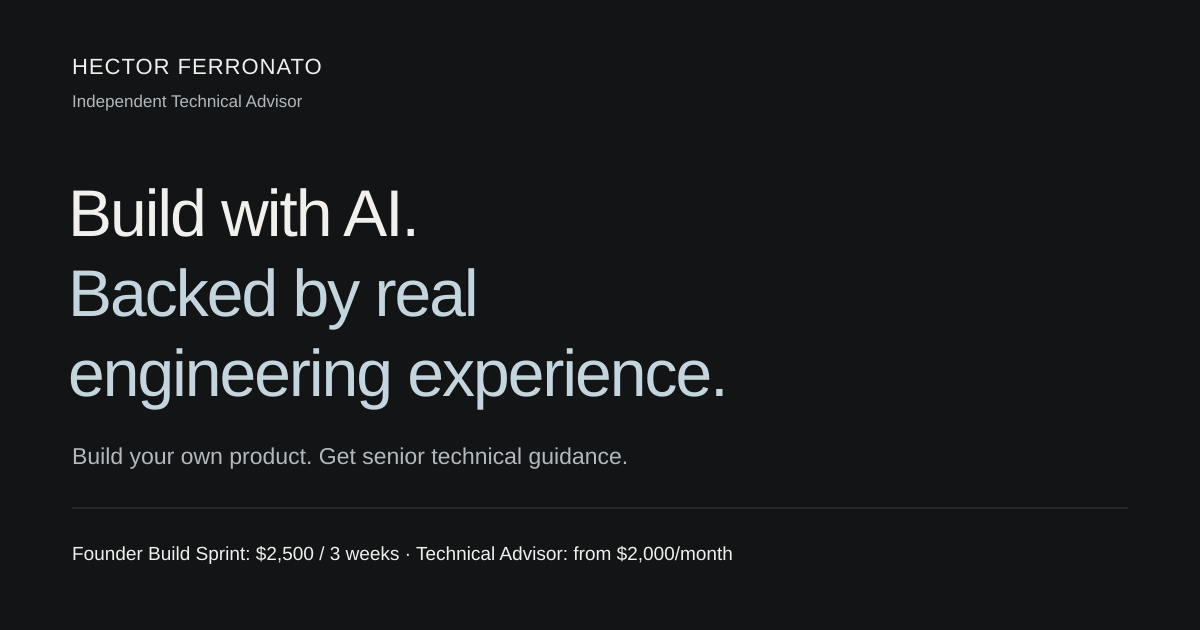
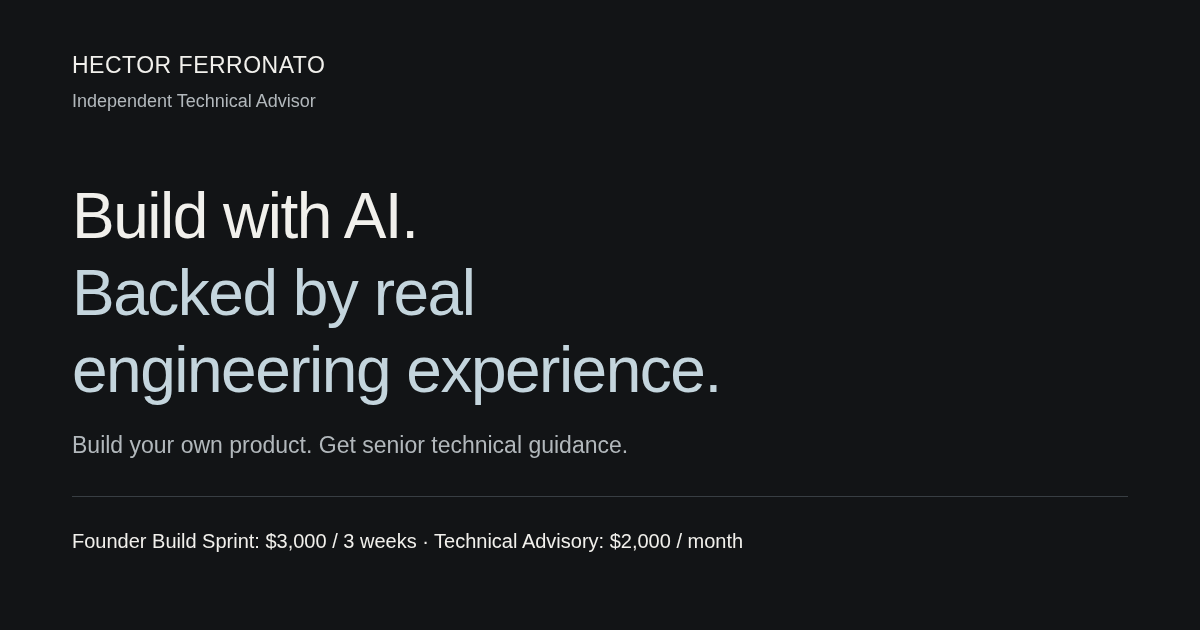
Correct service pricing and clarify story and back navigation

diff --git a/founder-build-sprint.html b/founder-build-sprint.html
@@ -1,12 +1,12 @@
-<!doctype html><html lang="en"><head><meta charset="utf-8"><meta name="viewport" content="width=device-width, initial-scale=1"><title>Founder Build Sprint | Hector Ferronato</title><meta name="description" content="Founder Build Sprint: $2,500 / 3 weeks, up to 8 advisor hours. Learn to build your own product with AI through private guidance and independent assignments."><meta name="theme-color" content="#121416"><link rel="canonical" href="https://hectorferronato.github.io/tech_advisor_landing_page/founder-build-sprint.html"><meta property="og:type" content="website"><meta property="og:title" content="Founder Build Sprint | Hector Ferronato"><meta property="og:description" content="Founder Build Sprint: $2,500 / 3 weeks, up to 8 advisor hours. Learn to build your own product with AI through private guidance and independent assignments."><meta property="og:url" content="https://hectorferronato.github.io/tech_advisor_landing_page/founder-build-sprint.html"><meta property="og:image" content="https://hectorferronato.github.io/tech_advisor_landing_page/assets/social.png"><meta name="twitter:card" content="summary_large_image"><link rel="icon" href="assets/favicon.svg" type="image/svg+xml"><link rel="stylesheet" href="assets/style.css?v=20261029-proof-popup-1"><script defer src="assets/config.js?v=20261029-contact-actions-1"></script><script defer src="assets/site.js?v=20261029-proof-popup-1"></script><script defer src="assets/forms.js?v=20261029-proof-popup-1"></script></head><body class="detail-page">
+<!doctype html><html lang="en"><head><meta charset="utf-8"><meta name="viewport" content="width=device-width, initial-scale=1"><title>Founder Build Sprint | Hector Ferronato</title><meta name="description" content="Founder Build Sprint: $3,000 / 3 weeks, up to 8 advisor hours. Learn to build your own product with AI through private guidance and independent assignments."><meta name="theme-color" content="#121416"><link rel="canonical" href="https://hectorferronato.github.io/tech_advisor_landing_page/founder-build-sprint.html"><meta property="og:type" content="website"><meta property="og:title" content="Founder Build Sprint | Hector Ferronato"><meta property="og:description" content="Founder Build Sprint: $3,000 / 3 weeks, up to 8 advisor hours. Learn to build your own product with AI through private guidance and independent assignments."><meta property="og:url" content="https://hectorferronato.github.io/tech_advisor_landing_page/founder-build-sprint.html"><meta property="og:image" content="https://hectorferronato.github.io/tech_advisor_landing_page/assets/social.png?v=20261029-pricing-1"><meta name="twitter:card" content="summary_large_image"><link rel="icon" href="assets/favicon.svg" type="image/svg+xml"><link rel="stylesheet" href="assets/style.css?v=20261029-pricing-navigation-1"><script defer src="assets/config.js?v=20261029-contact-actions-1"></script><script defer src="assets/site.js?v=20261029-proof-popup-1"></script><script defer src="assets/forms.js?v=20261029-proof-popup-1"></script></head><body class="detail-page">
 <a class="skip" href="#main">Skip to content</a>
 <main id="main" tabindex="-1">
 <section class="service-intro wrap" aria-labelledby="service-title">
-  <a class="breadcrumb" href="index.html#services">Back to engagements</a>
+  <a class="button secondary breadcrumb" href="index.html#services"><span aria-hidden="true">←</span>Back to engagements</a>
   <p class="eyebrow">Founder Build Sprint</p>
   <h1 id="service-title">Build your product.<br>Build your independence.</h1>
   <p class="lead">Go from idea to practical AI-assisted development through private guided sessions, structured assignments, and experienced engineering feedback.</p>
-  <div class="service-offer"><div><p class="offer-price">$2,500 / 3 weeks</p><p>Up to 8 advisor hours · Private 1:1</p><p>One-time engagement, renewable by agreement.</p></div><a class="button" data-apply="build" href="https://tally.so/r/J11QEz" target="_blank" rel="noopener noreferrer">Apply for a Build Sprint <svg class="arrow-icon" aria-hidden="true" viewBox="0 0 16 16" fill="none"><path d="M3 13 13 3M3 3h10v10" stroke="currentColor" stroke-width="1.25"/></svg></a></div>
+  <div class="service-offer"><div><p class="offer-price">$3,000 / 3 weeks</p><p>Up to 8 advisor hours · Private 1:1</p><p>One-time engagement, renewable by agreement.</p></div><a class="button" data-apply="build" href="https://tally.so/r/J11QEz" target="_blank" rel="noopener noreferrer">Apply for a Build Sprint <svg class="arrow-icon" aria-hidden="true" viewBox="0 0 16 16" fill="none"><path d="M3 13 13 3M3 3h10v10" stroke="currentColor" stroke-width="1.25"/></svg></a></div>
   <p class="contact-note" data-contact-note>Share your project through the application form. We’ll discuss fit, scope, and next steps before agreeing to an engagement.</p>
 </section>
 <section class="detail-section wrap detail-grid"><div><p class="eyebrow">WHO IT'S FOR</p><h2>Build capability,<br>alongside your product.</h2><p>A teaching engagement for founders and business owners who want to build and test a software idea before hiring a development team. You bring the business knowledge and the commitment to work independently. I help you turn that into a focused building and learning process.</p><p>The structure combines guided sessions, independent assignments, and expert technical feedback. You'll learn product scoping, environment setup, and AI-assisted workflows while doing the building yourself.</p></div><div class="detail-media" data-service-media="build"><img class="service-photo" data-service-image="build" src="assets/hector-building.jpg?v=20261029-selection-1" alt="AI-generated illustrative scene of Hector building software at a laptop" width="964" height="809" loading="lazy" decoding="async"></div></section>

diff --git a/technical-advisory.html b/technical-advisory.html
@@ -1,12 +1,12 @@
-<!doctype html><html lang="en"><head><meta charset="utf-8"><meta name="viewport" content="width=device-width, initial-scale=1"><title>Technical Advisory | Hector Ferronato</title><meta name="description" content="Technical Advisory: from $2,000/month, up to 4 advisor hours monthly and direct-message access. Independent senior guidance, reviews, and recommendations."><meta name="theme-color" content="#121416"><link rel="canonical" href="https://hectorferronato.github.io/tech_advisor_landing_page/technical-advisory.html"><meta property="og:type" content="website"><meta property="og:title" content="Technical Advisory | Hector Ferronato"><meta property="og:description" content="Technical Advisory: from $2,000/month, up to 4 advisor hours monthly and direct-message access. Independent senior guidance, reviews, and recommendations."><meta property="og:url" content="https://hectorferronato.github.io/tech_advisor_landing_page/technical-advisory.html"><meta property="og:image" content="https://hectorferronato.github.io/tech_advisor_landing_page/assets/social.png"><meta name="twitter:card" content="summary_large_image"><link rel="icon" href="assets/favicon.svg" type="image/svg+xml"><link rel="stylesheet" href="assets/style.css?v=20261029-proof-popup-1"><script defer src="assets/config.js?v=20261029-contact-actions-1"></script><script defer src="assets/site.js?v=20261029-proof-popup-1"></script><script defer src="assets/forms.js?v=20261029-proof-popup-1"></script></head><body class="detail-page">
+<!doctype html><html lang="en"><head><meta charset="utf-8"><meta name="viewport" content="width=device-width, initial-scale=1"><title>Technical Advisory | Hector Ferronato</title><meta name="description" content="Technical Advisory: $2,000/month, up to 4 advisor hours monthly and direct-message access. Independent senior guidance, reviews, and recommendations."><meta name="theme-color" content="#121416"><link rel="canonical" href="https://hectorferronato.github.io/tech_advisor_landing_page/technical-advisory.html"><meta property="og:type" content="website"><meta property="og:title" content="Technical Advisory | Hector Ferronato"><meta property="og:description" content="Technical Advisory: $2,000/month, up to 4 advisor hours monthly and direct-message access. Independent senior guidance, reviews, and recommendations."><meta property="og:url" content="https://hectorferronato.github.io/tech_advisor_landing_page/technical-advisory.html"><meta property="og:image" content="https://hectorferronato.github.io/tech_advisor_landing_page/assets/social.png?v=20261029-pricing-1"><meta name="twitter:card" content="summary_large_image"><link rel="icon" href="assets/favicon.svg" type="image/svg+xml"><link rel="stylesheet" href="assets/style.css?v=20261029-pricing-navigation-1"><script defer src="assets/config.js?v=20261029-contact-actions-1"></script><script defer src="assets/site.js?v=20261029-proof-popup-1"></script><script defer src="assets/forms.js?v=20261029-proof-popup-1"></script></head><body class="detail-page">
 <a class="skip" href="#main">Skip to content</a>
 <main id="main" tabindex="-1">
 <section class="service-intro wrap" aria-labelledby="service-title">
-  <a class="breadcrumb" href="index.html#services">Back to engagements</a>
+  <a class="button secondary breadcrumb" href="index.html#services"><span aria-hidden="true">←</span>Back to engagements</a>
   <p class="eyebrow">Technical Advisory</p>
   <h1 id="service-title">A clear perspective.<br>A better next decision.</h1>
   <p class="lead">Get independent senior guidance on architecture, product direction, AI development, engineering risks, and critical technical decisions.</p>
-  <div class="service-offer"><div><p class="offer-price">From $2,000 / month</p><p>Up to 4 advisor hours/month · Month-to-month</p><p>Includes direct-message access.</p></div><a class="button" data-apply="advisory" href="https://tally.so/r/DqqjEj" target="_blank" rel="noopener noreferrer">Request advisory <svg class="arrow-icon" aria-hidden="true" viewBox="0 0 16 16" fill="none"><path d="M3 13 13 3M3 3h10v10" stroke="currentColor" stroke-width="1.25"/></svg></a></div>
+  <div class="service-offer"><div><p class="offer-price">$2,000 / month</p><p>Up to 4 advisor hours/month · Month-to-month</p><p>Includes direct-message access.</p></div><a class="button" data-apply="advisory" href="https://tally.so/r/DqqjEj" target="_blank" rel="noopener noreferrer">Request advisory <svg class="arrow-icon" aria-hidden="true" viewBox="0 0 16 16" fill="none"><path d="M3 13 13 3M3 3h10v10" stroke="currentColor" stroke-width="1.25"/></svg></a></div>
   <p class="contact-note" data-contact-note>Share your project through the application form. We’ll discuss fit, scope, and next steps before agreeing to an engagement.</p>
 </section>
 <section class="detail-section wrap detail-grid"><div><p class="eyebrow">WHO IT'S FOR</p><h2>When the next choice<br>deserves a second perspective.</h2><p>You're already building software, using AI coding tools, or working with a technical team. You want experienced, independent judgment to understand the tradeoffs and decide where to invest next.</p><p>Bring an architecture question, hiring decision, vendor proposal, or AI-built product to review. We agree on a focused question and work toward prioritized recommendations.</p></div><div class="detail-media" data-service-media="advisory"><img class="service-photo" data-service-image="advisory" src="assets/hector-advisory.jpg?v=20261029-selection-1" alt="AI-generated illustrative scene of Hector discussing software architecture with another person" width="1122" height="1402" loading="lazy" decoding="async"></div></section>

diff --git a/index.html b/index.html
@@ -1,4 +1,4 @@
-<!doctype html><html lang="en"><head><meta charset="utf-8"><meta name="viewport" content="width=device-width, initial-scale=1"><title>Hector Ferronato | Independent Technical Advisory</title><meta name="description" content="Build with AI. Backed by real engineering experience. Founder Build Sprint: $2,500 / 3 weeks. Technical Advisory: from $2,000/month. Independent guidance from Hector Ferronato."><meta name="theme-color" content="#121416"><link rel="canonical" href="https://hectorferronato.github.io/tech_advisor_landing_page/"><meta property="og:type" content="website"><meta property="og:title" content="Hector Ferronato | Independent Technical Advisory"><meta property="og:description" content="Build with AI. Backed by real engineering experience. Founder Build Sprint: $2,500 / 3 weeks. Technical Advisory: from $2,000/month. Independent guidance from Hector Ferronato."><meta property="og:url" content="https://hectorferronato.github.io/tech_advisor_landing_page/"><meta property="og:image" content="https://hectorferronato.github.io/tech_advisor_landing_page/assets/social.png"><meta name="twitter:card" content="summary_large_image"><link rel="icon" href="assets/favicon.svg" type="image/svg+xml"><link rel="stylesheet" href="assets/style.css?v=20261029-proof-popup-1"><script defer src="assets/config.js?v=20261029-contact-actions-1"></script><script defer src="assets/site.js?v=20261029-proof-popup-1"></script><script defer src="assets/forms.js?v=20261029-proof-popup-1"></script></head><body class="homepage">
+<!doctype html><html lang="en"><head><meta charset="utf-8"><meta name="viewport" content="width=device-width, initial-scale=1"><title>Hector Ferronato | Independent Technical Advisory</title><meta name="description" content="Build with AI. Backed by real engineering experience. Founder Build Sprint: $3,000 / 3 weeks. Technical Advisory: $2,000/month. Independent guidance from Hector Ferronato."><meta name="theme-color" content="#121416"><link rel="canonical" href="https://hectorferronato.github.io/tech_advisor_landing_page/"><meta property="og:type" content="website"><meta property="og:title" content="Hector Ferronato | Independent Technical Advisory"><meta property="og:description" content="Build with AI. Backed by real engineering experience. Founder Build Sprint: $3,000 / 3 weeks. Technical Advisory: $2,000/month. Independent guidance from Hector Ferronato."><meta property="og:url" content="https://hectorferronato.github.io/tech_advisor_landing_page/"><meta property="og:image" content="https://hectorferronato.github.io/tech_advisor_landing_page/assets/social.png?v=20261029-pricing-1"><meta name="twitter:card" content="summary_large_image"><link rel="icon" href="assets/favicon.svg" type="image/svg+xml"><link rel="stylesheet" href="assets/style.css?v=20261029-pricing-navigation-1"><script defer src="assets/config.js?v=20261029-contact-actions-1"></script><script defer src="assets/site.js?v=20261029-proof-popup-1"></script><script defer src="assets/forms.js?v=20261029-proof-popup-1"></script></head><body class="homepage">
 <a class="skip" href="#main">Skip to content</a>
 <main id="main" tabindex="-1">
 <section class="hero wrap" aria-labelledby="intro-title">
@@ -32,7 +32,7 @@
     <article class="service-panel" aria-labelledby="build-title">
       <div class="panel-heading"><p class="eyebrow">BUILD YOUR PRODUCT</p><h3 id="build-title">Founder Build Sprint</h3></div>
       <p class="service-audience">Learn to build your own software product with AI.</p>
-      <div class="engagement"><p class="price">$2,500 <span>total</span></p><p class="engagement-duration">3 weeks · Private 1:1</p></div>
+      <div class="engagement"><p class="price">$3,000 <span>total</span></p><p class="engagement-duration">3 weeks · Private 1:1</p></div>
       <div class="service-photo-frame" data-service-media="build"><img class="service-photo" data-service-image="build" src="assets/hector-building.jpg?v=20261029-selection-1" alt="AI-generated illustrative scene of Hector building software at a laptop" width="964" height="809" loading="lazy" decoding="async"></div>
       <ul class="service-scope">
         <li>Guided AI-assisted building and assignment reviews</li>
@@ -47,7 +47,7 @@
     <article class="service-panel" aria-labelledby="advisory-title">
       <div class="panel-heading"><p class="eyebrow">GUIDE YOUR DECISIONS</p><h3 id="advisory-title">Technical Advisory</h3></div>
       <p class="service-audience">Already building? Get experienced technical guidance.</p>
-      <div class="engagement"><p class="price"><span class="price-prefix">From </span>$2,000<span>/month</span></p><p class="engagement-duration">Month-to-month</p></div>
+      <div class="engagement"><p class="price">$2,000<span>/month</span></p><p class="engagement-duration">Month-to-month</p></div>
       <div class="service-photo-frame" data-service-media="advisory"><img class="service-photo" data-service-image="advisory" src="assets/hector-advisory.jpg?v=20261029-selection-1" alt="AI-generated illustrative scene of Hector discussing software architecture with another person" width="1122" height="1402" loading="lazy" decoding="async"></div>
       <ul class="service-scope">
         <li>Product, architecture, and technical decision reviews</li>

diff --git a/experience.html b/experience.html
@@ -1,9 +1,9 @@
-<!doctype html><html lang="en"><head><meta charset="utf-8"><meta name="viewport" content="width=device-width, initial-scale=1"><title>Hector Ferronato | Engineering, Building &amp; Teaching</title><meta name="description" content="I combine engineering leadership, founder/operator experience, and teaching to help founders build independently and make informed technical decisions."><meta name="theme-color" content="#121416"><link rel="canonical" href="https://hectorferronato.github.io/tech_advisor_landing_page/experience.html"><meta property="og:type" content="website"><meta property="og:title" content="Hector Ferronato | Engineering, Building &amp; Teaching"><meta property="og:description" content="I combine engineering leadership, founder/operator experience, and teaching to help founders build independently and make informed technical decisions."><meta property="og:url" content="https://hectorferronato.github.io/tech_advisor_landing_page/experience.html"><meta property="og:image" content="https://hectorferronato.github.io/tech_advisor_landing_page/assets/hector-profile.jpg"><meta property="og:image:alt" content="Hector Ferronato"><meta name="twitter:card" content="summary"><link rel="icon" href="assets/favicon.svg" type="image/svg+xml"><link rel="stylesheet" href="assets/style.css?v=20261029-proof-popup-1"><script defer src="assets/config.js?v=20261029-contact-actions-1"></script><script defer src="assets/site.js?v=20261029-proof-popup-1"></script><link rel="stylesheet" href="assets/experience.css?v=20261029-spacing-1"><script defer src="assets/forms.js?v=20261029-proof-popup-1"></script></head><body class="experience-page">
+<!doctype html><html lang="en"><head><meta charset="utf-8"><meta name="viewport" content="width=device-width, initial-scale=1"><title>Hector Ferronato | Engineering, Building &amp; Teaching</title><meta name="description" content="I combine engineering leadership, founder/operator experience, and teaching to help founders build independently and make informed technical decisions."><meta name="theme-color" content="#121416"><link rel="canonical" href="https://hectorferronato.github.io/tech_advisor_landing_page/experience.html"><meta property="og:type" content="website"><meta property="og:title" content="Hector Ferronato | Engineering, Building &amp; Teaching"><meta property="og:description" content="I combine engineering leadership, founder/operator experience, and teaching to help founders build independently and make informed technical decisions."><meta property="og:url" content="https://hectorferronato.github.io/tech_advisor_landing_page/experience.html"><meta property="og:image" content="https://hectorferronato.github.io/tech_advisor_landing_page/assets/hector-profile.jpg"><meta property="og:image:alt" content="Hector Ferronato"><meta name="twitter:card" content="summary"><link rel="icon" href="assets/favicon.svg" type="image/svg+xml"><link rel="stylesheet" href="assets/style.css?v=20261029-pricing-navigation-1"><script defer src="assets/config.js?v=20261029-contact-actions-1"></script><script defer src="assets/site.js?v=20261029-proof-popup-1"></script><link rel="stylesheet" href="assets/experience.css?v=20261029-spacing-1"><script defer src="assets/forms.js?v=20261029-proof-popup-1"></script></head><body class="experience-page">
 <a class="skip" href="#main">Skip to content</a>
 <main id="main" tabindex="-1">
 
 <section class="exp-intro wrap" aria-labelledby="experience-title">
-  <a class="breadcrumb" href="index.html">Back to home</a>
+  <a class="button secondary breadcrumb" href="index.html"><span aria-hidden="true">←</span>Back to home</a>
   <div class="exp-intro-grid">
     <div class="exp-intro-copy">
       <p class="eyebrow">HECTOR’S EXPERIENCE</p>

diff --git a/assets/style.css b/assets/style.css
@@ -52,8 +52,8 @@ h1, h2, h3 { margin: 0; font-weight: 500; line-height: 1.16; letter-spacing: -.0
 .hero-profile figcaption p { margin: 0; font-size: 16px; color: var(--text); line-height: 1.5; }
 .hero-profile figcaption > span { display: block; font-size: 12px; color: var(--muted); line-height: 1.65; margin-top: 3px; text-wrap: pretty; }
 .hero-profile figcaption .profile-story { margin: 10px 0 0; color: var(--muted); font-size: 12px; line-height: 1.65; }
-.background-link { display: inline-flex; align-items: baseline; gap: 6px; min-height: 44px; margin-top: 14px; color: var(--muted); font-size: 12px; line-height: 1.7; text-decoration: underline; text-underline-offset: 4px; text-decoration-color: var(--border); }
-.background-link:hover { text-decoration-color: currentColor; }
+.background-link { display: inline-flex; align-items: baseline; gap: 6px; min-height: 44px; margin-top: 14px; color: var(--text); font-size: 14px; font-weight: 500; line-height: 1.7; text-decoration: underline; text-underline-offset: 4px; text-decoration-color: var(--accent); }
+.background-link:hover { color: var(--accent); text-decoration-color: currentColor; }
 /* The services are the visual and commercial center of the page. */
 .services { border-top: 1px solid var(--border); padding-block: 30px 46px; }
 .section-heading { display: flex; align-items: baseline; justify-content: space-between; gap: 24px; margin-bottom: 24px; }
@@ -74,7 +74,6 @@ h1, h2, h3 { margin: 0; font-weight: 500; line-height: 1.16; letter-spacing: -.0
 .engagement { margin-inline: var(--inset); padding-block: 16px 20px; border-top: 1px solid var(--border); }
 .price { color: var(--text); font-size: 28px; line-height: 1.25; font-weight: 500; letter-spacing: -.035em; margin-bottom: 9px; }
 .price > span { color: var(--muted); font-size: 13px; font-weight: 400; letter-spacing: 0; }
-.price > .price-prefix { color: var(--text); font-size: 17px; letter-spacing: -.015em; }
 .engagement-duration { font-size: 13px; margin: 0; }
 .service-scope { margin: 0; padding: 20px var(--inset); list-style: none; color: var(--muted); font-size: 13px; line-height: 1.65; }
 .service-scope li { position: relative; padding-left: 13px; }
@@ -97,7 +96,8 @@ h1, h2, h3 { margin: 0; font-weight: 500; line-height: 1.16; letter-spacing: -.0
 .skip:focus { top: 10px; }
 /* Existing detail routes retain their full scope and readable explanations. */
 .service-intro { padding-top: 28px; padding-bottom: 38px; }
-.breadcrumb { display: inline-block; min-height: 40px; font-size: 12px; color: var(--muted); margin-bottom: 24px; }
+.breadcrumb { min-height: 44px; gap: 10px; margin-bottom: 24px; }
+.breadcrumb > span { font-size: 18px; line-height: 1; }
 .service-intro .eyebrow { margin-bottom: 16px; }
 .service-intro h1 { font-size: clamp(35px, 4.3vw, 54px); max-width: 900px; margin-bottom: 21px; }
 .lead { font-size: 18px; line-height: 1.65; max-width: 700px; }

diff --git a/scripts/social-preview.html b/scripts/social-preview.html
@@ -1,0 +1,25 @@
+<!doctype html>
+<html lang="en">
+<head>
+  <meta charset="utf-8">
+  <title>Hector Ferronato — social preview source</title>
+  <style>
+    * { box-sizing: border-box; }
+    html, body { margin: 0; width: 1200px; height: 630px; }
+    body { padding: 52px 72px; background: #121416; color: #f1f0ec; font-family: Arial, sans-serif; }
+    .name { margin: 0; font-size: 23px; font-weight: 400; letter-spacing: .5px; }
+    .role { margin: 12px 0 0; color: #b2b8bc; font-size: 18px; }
+    h1 { margin: 66px 0 24px; font-size: 64px; font-weight: 400; line-height: 1.2; letter-spacing: -1.5px; }
+    h1 span { color: #c4d5dd; }
+    .support { margin: 0; font-size: 23px; color: #b2b8bc; }
+    .offers { margin: 37px 0 0; padding-top: 33px; border-top: 1px solid #383e43; font-size: 20px; }
+  </style>
+</head>
+<body>
+  <p class="name">HECTOR FERRONATO</p>
+  <p class="role">Independent Technical Advisor</p>
+  <h1>Build with AI.<br><span>Backed by real<br>engineering experience.</span></h1>
+  <p class="support">Build your own product. Get senior technical guidance.</p>
+  <p class="offers">Founder Build Sprint: $3,000 / 3 weeks · Technical Advisory: $2,000 / month</p>
+</body>
+</html>

diff --git a/scripts/check.py b/scripts/check.py
@@ -73,7 +73,7 @@ for service, detail, filename in [
         assert 'AI-generated illustrative scene' in images[0]['alt'], 'Missing accurate scene alt text'
 # Prices and advisor-hour limits must agree across visible copy and social/SEO metadata.
 for filename, price, hours in [
-    ('founder-build-sprint.html', '$2,500', '8 advisor hours'),
+    ('founder-build-sprint.html', '$3,000', '8 advisor hours'),
     ('technical-advisory.html', '$2,000', '4 advisor hours'),
 ]:
     doc = docs[ROOT / filename]
@@ -83,16 +83,21 @@ for filename, price, hours in [
         assert price in doc.metadata[key] and hours in doc.metadata[key], f'Wrong offer metadata in {filename}'
 for path in docs:
     source = path.read_text()
-    assert not any(old in source for old in ('$3,000', '3 advisor hours', 'three advisor hours')), f'Stale pricing/scope in {path}'
+    assert not any(old in source.lower() for old in ('$2,500', '$2500', 'from $2,000', '3 advisor hours', 'three advisor hours')), f'Stale pricing/scope in {path}'
 home_text = ' '.join(' '.join(home.text).split())
-assert 'From $2,000' in home_text and 'From $2,000' in ' '.join(docs[ROOT / 'technical-advisory.html'].text), 'Advisory must use starting-at pricing'
-assert all(value in home_text for value in ('$2,500', '$2,000', '8 total advisor hours', '4 total advisor hours')), 'Homepage offer mismatch'
+assert all(value in home_text for value in ('$3,000', '$2,000', '8 total advisor hours', '4 total advisor hours')), 'Homepage offer mismatch'
+for key in ('description', 'og:description'):
+    assert 'Founder Build Sprint: $3,000 / 3 weeks' in home.metadata[key], 'Homepage metadata missing Sprint pricing'
+    assert 'Technical Advisory: $2,000/month' in home.metadata[key], 'Homepage metadata missing Advisory pricing'
 assert 'direct-message access' in home_text.lower(), 'Homepage missing direct-message access'
 advisory = docs[ROOT / 'technical-advisory.html']
 assert 'direct-message access' in ' '.join(advisory.text).lower(), 'Detail page missing direct-message access'
 for key in ('description', 'og:description'):
-    assert 'from $2,000' in advisory.metadata[key].lower(), 'Metadata missing starting-at pricing'
     assert 'direct-message access' in advisory.metadata[key], 'Metadata missing direct-message access'
+for filename in ('README.md', 'scripts/social-preview.html'):
+    source = (ROOT / filename).read_text()
+    assert '$3,000 / 3 weeks' in source and '$2,000 / month' in source, f'Inconsistent published pricing in {filename}'
+    assert '$2,500' not in source and 'from $2,000' not in source.lower(), f'Stale pricing in {filename}'
 # A missing configured image is a deployment error; an unconfigured optional image is not requested.
 config = (ROOT / 'assets/config.js').read_text()
 for field in ('portraitUrl', 'buildImageUrl', 'advisoryImageUrl'):

diff --git a/docs/REVIEW.md b/docs/REVIEW.md
@@ -1,49 +1,19 @@
-# Hero proof points, balanced actions, and hosted-form popups
+# Consistent pricing and clearer navigation
 
-The homepage now presents customer benefit, three concrete credentials, a short teaching statement, and then the two actions. The former company-name biography paragraph is removed. The charcoal identity, headline treatment, real portrait, two-section structure, service content, prices, and original form destinations remain intact.
+Founder Build Sprint is $3,000 / 3 weeks. Technical Advisory is $2,000 / month. Both prices now agree across the homepage, detail pages, search/Open Graph descriptions, social-sharing image, README, and static checks. Advisory is displayed as a fixed monthly price. The existing hour limits, direct-message access, service scope, and all three Tally destinations are unchanged.
 
-## Changes
+The social preview is rendered from `scripts/social-preview.html` at 1200 × 630. Its image query is refreshed on the homepage and both service pages so previews can request the corrected asset. The experience page continues to use the real headshot for social sharing.
 
-- Support: “Learn to build your own software with AI—or get senior technical guidance for the product you’re already building.”
-- Editorial proof row: 17 years / Programming experience; 100+ / Engineers under my leadership; 4 ventures / Founded or co-founded. The values are user-supplied. Programming years remain a manually editable HTML value, not an automatic anniversary or executive-tenure claim. The other figures do not imply direct-report counts, exits, profitability, or current venture activity.
-- Teaching: “I’ve taught programming to children and adults. I make technical decisions understandable—and help you put them into practice.” It appears once, without another biography or heading.
-- Message me is the filled first action; Compare services is the outlined second action, as requested in the attached brief. The helper is “Share what you’re building, or ask a question.”
-- Desktop portrait stays on the right and aligns to the top of the hero. Mobile reads headline → support → proof → teaching → actions, followed by the portrait/story block. Three proof columns fit at 390px; below 360px the metrics use three compact value/label rows.
-- Both bottom card controls occupy equal halves of the available action row, including on mobile. See details uses the existing outline treatment and still navigates to its local service page. Card backgrounds remain noninteractive.
-- Get in touch now uses a muted charcoal fill and restrained border, with readable text and the same comfortable target size.
+## Navigation
 
-## Form behavior
+- The portrait-associated story link uses brighter text, a visible underline, and a readable 14px size. It remains a text link to `experience.html`, with a 44px target and visible keyboard focus.
+- The experience page's Back to home control and both service pages' Back to engagements controls use the existing outline-button treatment with a left arrow. Their original home/services destinations are preserved. Arrows are hidden from assistive technology.
+- The shared stylesheet query is updated on all four pages.
 
-A small local `assets/forms.js` enhancement opens the existing Tally forms in a native dialog. It creates a titled iframe only after a plain form-link click; no remote widget script, backend, or initial Tally request is introduced.
+## Validation
 
-| Form | Original destination, preserved |
-| --- | --- |
-| General message | https://tally.so/r/Eqq29l |
-| Founder Build Sprint | https://tally.so/r/J11QEz |
-| Technical Advisory | https://tally.so/r/DqqjEj |
-
-The popup provides a visible Close button and a permanent Open form in a new tab link. Closing restores opener focus, unlocks background scrolling, and clears the iframe. Native Escape works from popup controls. Keys inside a cross-origin form are controlled by that form; keyboard users can return to Close with Shift+Tab. No keyboard events inside the hosted form are captured or blocked by the site.
-
-Original links retain their real hrefs plus `target="_blank"` and `rel="noopener noreferrer"`. Modified clicks are left to the browser. Missing JavaScript, unsupported dialogs, or a failed dialog-open call retain native new-tab navigation. See details, services-anchor, and experience navigation are not intercepted. `assets/config.js` is unchanged.
-
-## Validation and previews
-
-- Existing static checker passes across four pages and 46 relative references, including assets, metadata, anchors, pricing, hour caps, and two homepage sections.
-- Syntax checks for site/config/forms JavaScript and whitespace checks pass.
-- Five Chromium homepage/card renders cover 1280/1024/768/390/320px, including exact copy, all three visible proofs, subordinate metric type, readable labels, equal-width/equal-height card controls, quieter footer, working local links, and no overflow or missing assets.
-- Popup tests cover all three form IDs, all relevant page types, desktop and mobile sizing, titled lazy iframes, close button, keyboard return from iframe, Escape from popup controls, backdrop dismissal, focus/scroll cleanup, and the persistent original-URL fallback.
-- Actual native new-tab navigation passes with JavaScript disabled, missing dialog support, and forced dialog-open failure. Modifier clicks remain uncancelled. No real form data was submitted.
-- Tests intercept Tally locally. Live hosted-form rendering and Safari/mobile-device behavior were not checked. Popup-shell screenshots contain an explicitly labeled local test fixture, not Tally’s actual form contents.
-- Independent factual/routing review found no blockers. User-supplied metrics and all original form IDs are preserved; no employers, endorsements, or extra achievement claims were introduced.
-
-| Width | Before hero | After hero |
-| --- | --- | --- |
-|1280px |541px |578px |
-|390px |983px |1011px |
-|320px |1097px |1141px |
-
-Before/after screenshots: `/workspace/artifacts/proof-popup-refinement/before/` and `/workspace/artifacts/proof-popup-refinement/after/`. Each contains full-page and hero previews at the representative widths. After also contains the wider responsive set and popup-shell fixtures.
-
-## Delivery
-
-Prepared on `refine/proof-and-form-popups` for review. The attached brief explicitly says not to merge automatically, so this task does not change main or publish a new Pages release. The branch starts from main commit `1dd743b`.
+- `python3 scripts/check.py` passes for four pages and 46 relative references, including local assets, anchors, metadata, prices, hour limits, and homepage structure. Pricing checks now cover homepage metadata, README, and social-preview source as well.
+- JavaScript syntax and whitespace checks pass.
+- Chromium review covers all four pages at 1280px, 390px, and 320px: visible prices, metadata, story/back navigation, keyboard focus, 44px targets, and no horizontal overflow or missing assets.
+- The homepage still has two hero buttons and equal-width service-card controls. Original form destinations are preserved. No external requests or form submissions were made during these checks.
+- The refreshed social image and desktop/mobile screenshots were visually reviewed. Artifacts are in `/workspace/artifacts/pricing-navigation/`.

diff --git a/README.md b/README.md
@@ -8,8 +8,8 @@ Semantic HTML, shared CSS, and minimal progressive-enhancement JavaScript. No fr
 
 | Offer | Price | Advisor time | Focus |
 | --- | --- | --- | --- |
-| Founder Build Sprint | $2,500 / 3 weeks | Up to 8 hours total | Private guided sessions, structured assignments, and engineering feedback; the founder builds |
-| Technical Advisory | From $2,000 / month | Up to 4 hours monthly | Senior technical judgment, focused reviews, and recommendations; month-to-month with direct-message access |
+| Founder Build Sprint | $3,000 / 3 weeks | Up to 8 hours total | Private guided sessions, structured assignments, and engineering feedback; the founder builds |
+| Technical Advisory | $2,000 / month | Up to 4 hours monthly | Senior technical judgment, focused reviews, and recommendations; month-to-month with direct-message access |
 
 The detail pages retain scope, exclusions, scheduling expectations, and renewal/no-guarantee language. Advisory is not full-time CTO responsibility, on-call support, or day-to-day development ownership. There are no FAQ blocks in the current site.
 
@@ -37,7 +37,7 @@ Run `python3 scripts/check.py` to validate local links/assets, anchors, heading 
 - `assets/social.png`, `assets/favicon.svg`: social preview and favicon consistent with the current visual direction.
 - `.nojekyll`: bypasses Jekyll for GitHub Pages.
 
-Update prices/time limits in the homepage, corresponding detail page, SEO/Open Graph descriptions, README table, and static check expectations together. Footer markup is shared by convention across all four HTML pages; update all four. Bump the shared stylesheet/script query version in all four pages when publishing asset changes.
+Update prices/time limits in the homepage, corresponding detail page, SEO/Open Graph descriptions, README table, social preview source (`scripts/social-preview.html`), and static check expectations together. Re-render the preview source at 1200 × 630 into `assets/social.png` using a browser screenshot, then bump the social image query wherever that preview is referenced. Footer markup is shared by convention across all four HTML pages; update all four. Bump the shared stylesheet/script query version in all four pages when publishing asset changes.
 
 ## Contact and application configuration
 
